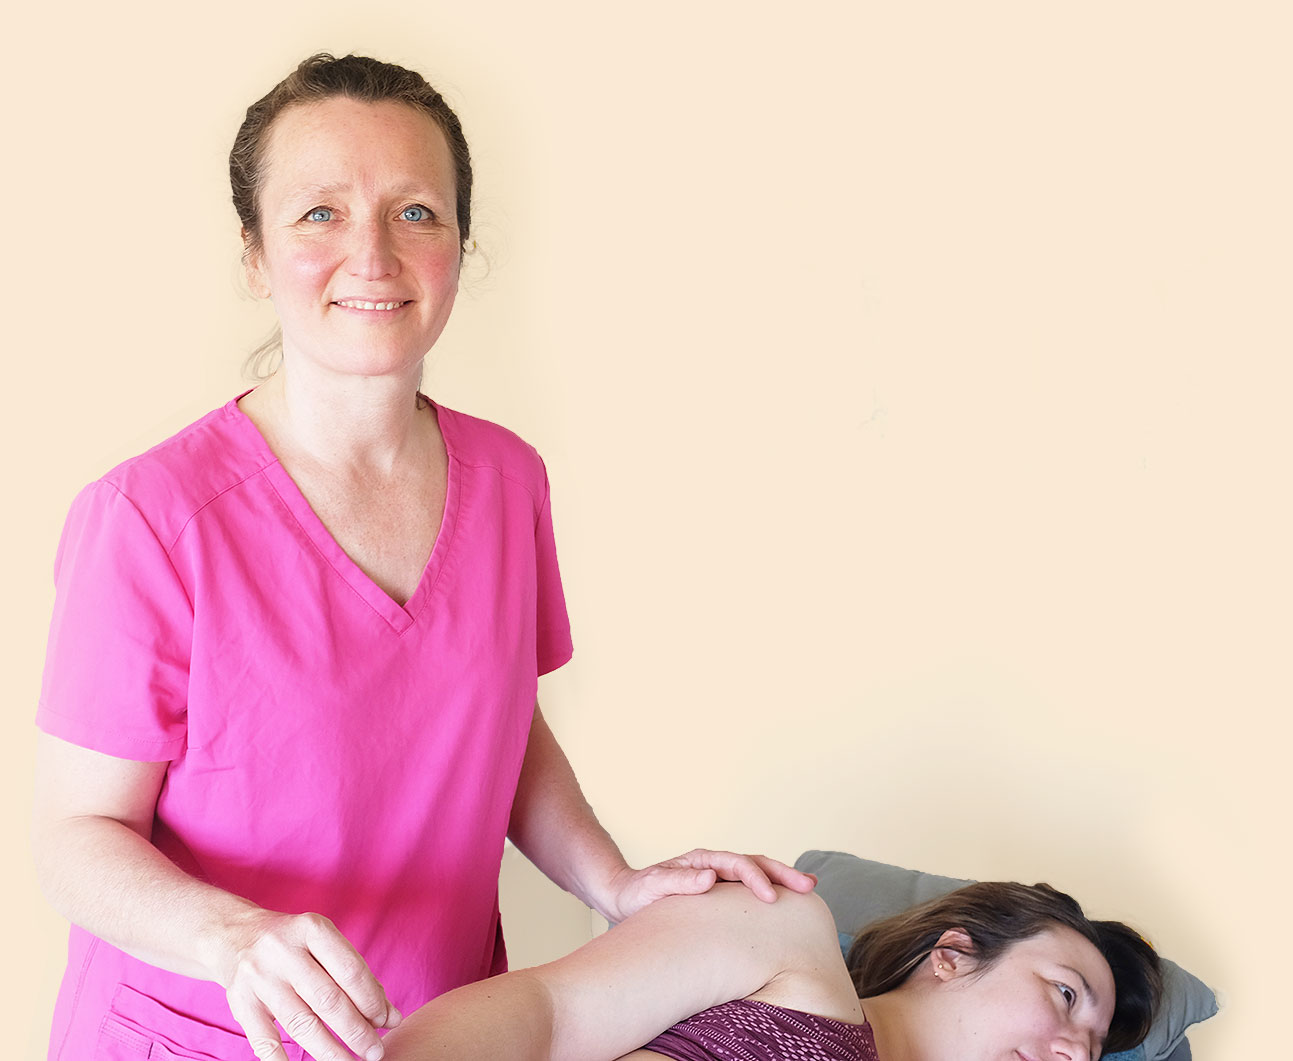
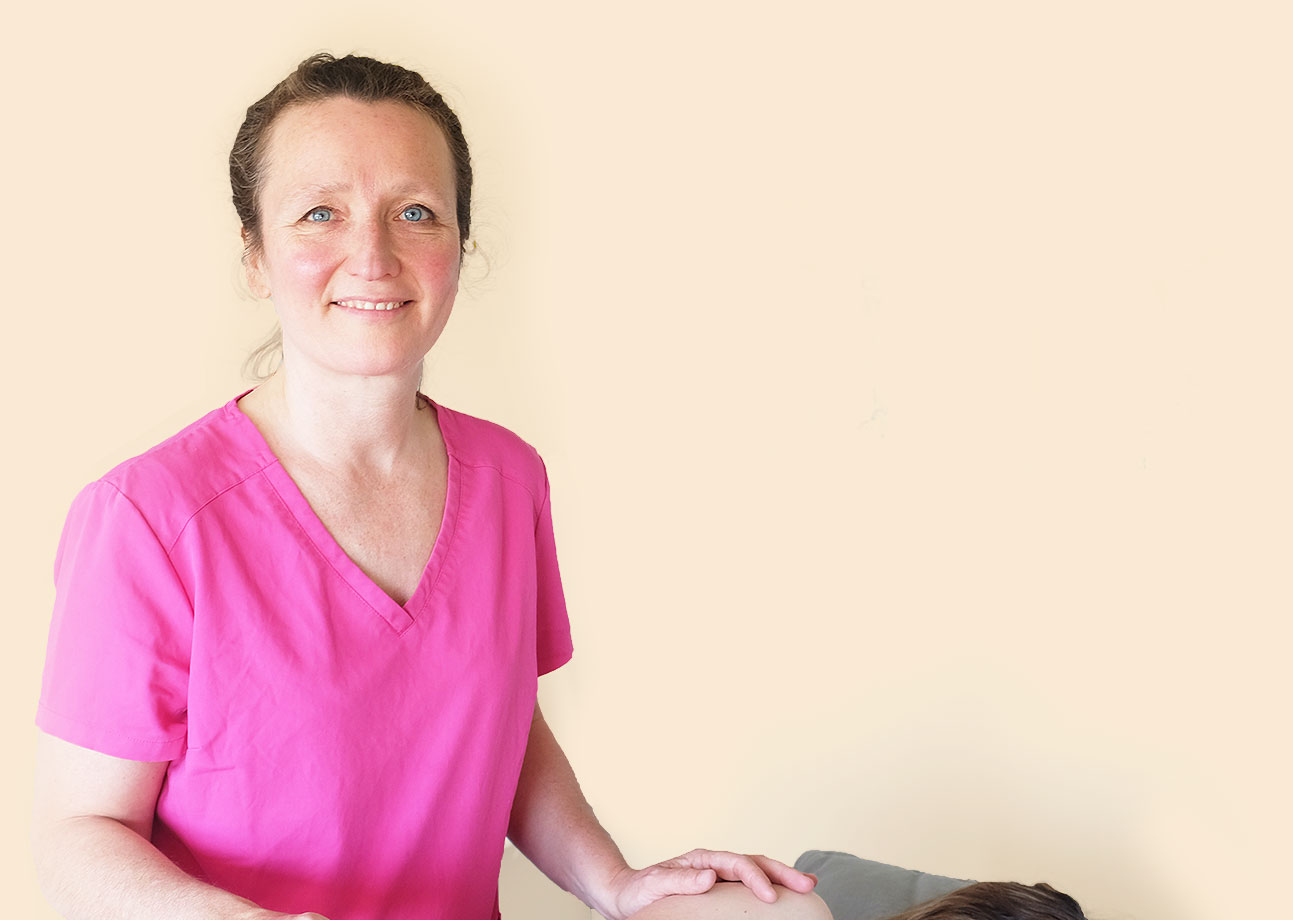
updated

Changed region(s): [[0.0309, 0.0304, 0.959, 1.0]]

diff --git a/library/css/screen.css b/library/css/screen.css
@@ -18,7 +18,7 @@ div, li, ul, article, section, span, img, h1, h2, h3, h4, p, a {
   top: 0;
   z-index: 10;
   background-color: white;
-  box-shadow: 0 0 2px rgba(0, 0, 0, 0.04);
+  box-shadow: 0 0 2px rgba(0, 0, 0, 0.3);
 }
 /* line 9, ../scss/sass/_nav.scss */
 .main-header .main-navigation {
@@ -28,7 +28,6 @@ div, li, ul, article, section, span, img, h1, h2, h3, h4, p, a {
   align-items: center;
   justify-content: space-between;
   padding: 10px 20px;
-  box-shadow: 0 0 2px rgba(0, 0, 0, 0.3);
 }
 @media only screen and (min-width: 602px) {
   /* line 9, ../scss/sass/_nav.scss */
@@ -37,12 +36,12 @@ div, li, ul, article, section, span, img, h1, h2, h3, h4, p, a {
   }
 }
 
-/* line 24, ../scss/sass/_nav.scss */
+/* line 23, ../scss/sass/_nav.scss */
 .anyu-logo img {
   max-height: 60px;
 }
 
-/* line 31, ../scss/sass/_nav.scss */
+/* line 30, ../scss/sass/_nav.scss */
 .top-nav {
   position: fixed;
   top: 83px;
@@ -56,13 +55,13 @@ div, li, ul, article, section, span, img, h1, h2, h3, h4, p, a {
   overflow: hidden;
   box-shadow: 0 0 2px rgba(0, 0, 0, 0.3);
 }
-/* line 43, ../scss/sass/_nav.scss */
+/* line 42, ../scss/sass/_nav.scss */
 .top-nav.active {
   height: auto;
-  box-shadow: 0;
+  box-shadow: none;
 }
 @media only screen and (min-width: 602px) {
-  /* line 31, ../scss/sass/_nav.scss */
+  /* line 30, ../scss/sass/_nav.scss */
   .top-nav {
     position: relative;
     list-style: none;
@@ -73,6 +72,7 @@ div, li, ul, article, section, span, img, h1, h2, h3, h4, p, a {
     display: flex;
     align-items: center;
     justify-content: flex-end;
+    box-shadow: none;
   }
 }
 /* line 60, ../scss/sass/_nav.scss */
@@ -177,7 +177,7 @@ div, li, ul, article, section, span, img, h1, h2, h3, h4, p, a {
   display: flex;
   justify-content: center;
   align-items: stretch;
-  padding-top: 80px;
+  padding-top: 0;
 }
 /* line 11, ../scss/sass/_hero.scss */
 .hero .hero-content {
@@ -524,7 +524,7 @@ a {
   /* line 182, ../scss/sass/screen.scss */
   .footer .footer-content-wrapper {
     flex-direction: row;
-    padding: 40px 0 40px 0;
+    padding: 40px 40px 40px 40px;
   }
 }
 /* line 193, ../scss/sass/screen.scss */
@@ -601,27 +601,35 @@ a {
   margin-top: 20px;
 }
 /* line 252, ../scss/sass/screen.scss */
+.entry-content iframe {
+  max-width: 100%;
+}
+/* line 255, ../scss/sass/screen.scss */
 .entry-content img {
   box-shadow: 10px 10px 40px rgba(0, 0, 0, 0.1);
   max-width: 100%;
   margin-bottom: 20px;
-}
-/* line 256, ../scss/sass/screen.scss */
-.entry-content img.alignleft {
-  float: left;
-  margin-right: 20px;
+  max-width: 400px;
 }
 /* line 260, ../scss/sass/screen.scss */
+.entry-content img.alignleft {
+  float: left;
+  margin-right: -200px;
+}
+/* line 264, ../scss/sass/screen.scss */
 .entry-content img.alignright {
   float: right;
   margin-left: 20px;
+  margin-left: -200px;
+  transform: translateX(220px);
 }
-/* line 264, ../scss/sass/screen.scss */
+/* line 270, ../scss/sass/screen.scss */
 .entry-content img.aligncenter {
   margin: 0 auto 20px auto;
   display: block;
+  max-width: 600px;
 }
-/* line 269, ../scss/sass/screen.scss */
+/* line 276, ../scss/sass/screen.scss */
 .entry-content ul {
   list-style: disc outside none;
   padding: 20px;

diff --git a/library/scss/sass/_nav.scss b/library/scss/sass/_nav.scss
@@ -5,7 +5,7 @@
     top: 0;
     z-index: 10;
     background-color: white;
-    box-shadow: 0 0 2px rgba(0,0,0,0.04);
+    box-shadow: 0 0 2px rgba(0,0,0,0.3);
     .main-navigation {
       display: flex;
       max-width: $maxDesktopWidth;
@@ -13,7 +13,6 @@
       align-items: center;
       justify-content: space-between;
       padding: 10px 20px;
-      box-shadow: 0 0 2px rgba(0,0,0,0.3);    
       @media #{$otherThanPhone} {
         padding: 10px 60px;
       }
@@ -42,7 +41,7 @@
     box-shadow: 0 0 2px rgba(0,0,0,0.3);
     &.active {
         height: auto;
-        box-shadow: 0;
+        box-shadow: none;
     }
     // hest
     @media #{$otherThanPhone} {
@@ -55,6 +54,7 @@
         display: flex;
         align-items: center;
         justify-content: flex-end;
+        box-shadow: none;
     }
     .menu-item {
       a {

diff --git a/library/scss/sass/screen.scss b/library/scss/sass/screen.scss
@@ -188,7 +188,7 @@ a {
     flex-direction: column;
     @media #{$otherThanPhone} {
       flex-direction: row;
-      padding: 40px 0 40px 0;
+      padding: 40px 40px 40px 40px;
     }
     .footer-info {
       padding-right: 0;
@@ -249,21 +249,28 @@ a {
       
     }
   }
+  iframe {
+    max-width: 100%;
+  }
   img {
     box-shadow: 10px 10px 40px rgba(0,0,0,0.1);
     max-width: 100%;
     margin-bottom: 20px;
+    max-width: 400px;
     &.alignleft {
       float: left;
-      margin-right: 20px;
+      margin-right: -200px;
     }
     &.alignright {
       float: right;
       margin-left: 20px;
+      margin-left: -200px;
+      transform: translateX(220px);
     }
     &.aligncenter {
       margin: 0 auto 20px auto;
       display: block;
+      max-width: 600px;
     }
   }
   ul {

diff --git a/library/scss/sass/_hero.scss b/library/scss/sass/_hero.scss
@@ -7,7 +7,7 @@
     display: flex;
     justify-content: center;
     align-items: stretch;
-    padding-top: 80px;
+    padding-top: 0;
     .hero-content {
       max-width: $maxDesktopWidth;
       width: 100%;

diff --git a/library/js/anyuklinikken.js b/library/js/anyuklinikken.js
@@ -5,5 +5,7 @@
 			$(event.target).toggleClass("active");
 			$("#menu-main-menu").toggleClass("active");
 		});
+
+		$("img").removeAttr("height");
 	});
 })(jQuery);
